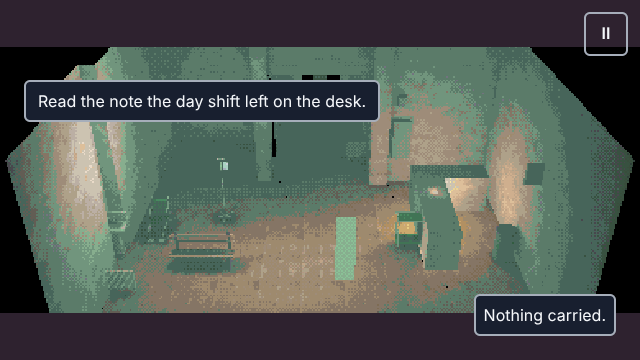
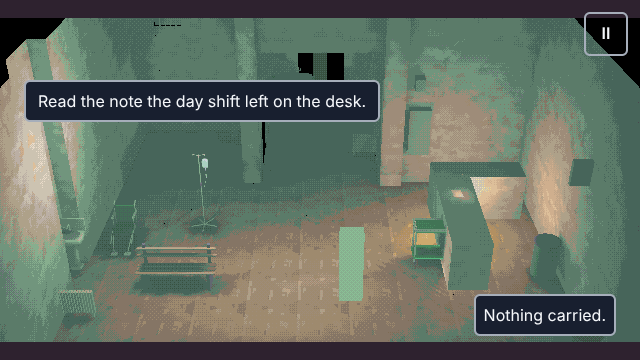
fix(the-last-light): the picture is the old game's, capped at 640 by 480
The game drew the framework look's 390 by 180 field; the Owner's ruling and the plan's amendment 7 bind the old game's, which is
the window's shape at most 640 wide and 480 tall (its pixelScale). Both screenshots for the Owner are re-shot at the new size.

Claude-Session: https://claude.ai/code/session_01HNdX7MbP4BrHngS9BNwUHr

diff --git a/games/the-last-light/src/app/game.ts b/games/the-last-light/src/app/game.ts
@@ -1,5 +1,5 @@
 import { content } from 'virtual:automata/content'
-import { createPixi3dRenderer, DEFAULT_LOOK, render3dExtension, targetSize } from '@automata/3d'
+import { createPixi3dRenderer, DEFAULT_LOOK, render3dExtension } from '@automata/3d'
 import { CameraTurn, STICK_MAX } from '@automata/3d/sim'
 import { defaultContent, defineGame, inputs, keys } from '@automata/framework'
 import { prefersReducedMotion, typedFor } from '@automata/narrative'
@@ -15,6 +15,7 @@ import { Ada } from '../shared/ada.component.ts'
 import { TICK_HZ } from '../shared/constants.ts'
 import { audio, SOUND_FILES } from './audio.ts'
 import { playOf } from './content.ts'
+import { fieldOfWindow } from './field.ts'
 import { playControls, playHud } from './play.extension.ts'
 import { createRuntime } from './runtime.ts'
 import { scenePlugin } from './scene.plugin.ts'
@@ -55,16 +56,15 @@ const TURN = keys(
   { idle: { units: 0 } },
 )
 
-/** The picture: capped at 640 by 480 (640 by 360 in a wide window), what a phone held sideways (844 by 390) gives. */
-const SIZE = targetSize({ width: 844, height: 390 }, DEFAULT_LOOK.pixel.short)
+/** The picture: the old game's, the window's shape capped at 640 by 480 (640 by 360 in a 16:9 window). */
+const SIZE = fieldOfWindow()
+/** The look with its field's short side the picture's, so the passes that read it draw at this size. */
+const LOOK = { ...DEFAULT_LOOK, pixel: { short: Math.min(SIZE.width, SIZE.height) } }
 
 /** The characters a cutscene can place, by who a script calls them. */
 const actors: Actors = new Map()
 
-/**
- * The Last Light, the framework's 3D reference game. Its picture is the old game's: capped at 640 by 480 (640 by 360
- * in a wide window), which is what `DEFAULT_LOOK`'s short side gives a phone held sideways (844 by 390).
- */
+/** The Last Light, the framework's 3D reference game. Its picture is the old game's (`app/field.ts`). */
 export const game = defineGame({
   id: 'the-last-light',
   title: 'The Last Light',
@@ -94,7 +94,7 @@ export const game = defineGame({
   createRenderer: (options) =>
     createPixi3dRenderer({
       ...options,
-      look: DEFAULT_LOOK,
+      look: LOOK,
       time: TIME,
       lighting: LIGHTING,
       // Plain figures until the painted ones are dressed (workstream 4): a box each, from where the sim says they stand.

diff --git a/games/the-last-light/src/app/field.ts b/games/the-last-light/src/app/field.ts
@@ -1,0 +1,31 @@
+// The picture's size. It is the old game's: the window's own shape, never wider than 640 or taller than 480 (the old game's
+// `pixelScale`: the renderer's resolution is `min(1, 640 / w, 480 / h)`), so a 16:9 window draws 640 by 360. The framework's own
+// look draws a 180-line field, which is the framework's default and not this game's; the old game's figures and lines a metre
+// are measured at this size (the plan's amendment 7).
+
+/** The largest picture, in pixels. */
+export const FIELD_CAP = { width: 640, height: 480 } as const
+
+/** The phone held sideways the page is designed at first, and the field when the window has no size. */
+const PHONE = { width: 844, height: 390 }
+
+/** The field for a window of `screen` CSS pixels: its shape, scaled down to fit the cap, never up. The game is landscape. */
+export function fieldFor(screen: { readonly width: number; readonly height: number }): {
+  width: number
+  height: number
+} {
+  const sized = screen.width > 0 && screen.height > 0
+  const width = sized ? Math.max(screen.width, screen.height) : PHONE.width
+  const height = sized ? Math.min(screen.width, screen.height) : PHONE.height
+  const resolution = Math.min(1, FIELD_CAP.width / width, FIELD_CAP.height / height)
+  return {
+    width: Math.max(1, Math.round(width * resolution)),
+    height: Math.max(1, Math.round(height * resolution)),
+  }
+}
+
+/** The field for the window the page runs in; the phone's where there is none (a test in Node). */
+export function fieldOfWindow(): { width: number; height: number } {
+  if (typeof window === 'undefined') return fieldFor({ width: 0, height: 0 })
+  return fieldFor({ width: window.innerWidth, height: window.innerHeight })
+}

diff --git a/games/the-last-light/tests/unit/app/field.test.ts b/games/the-last-light/tests/unit/app/field.test.ts
@@ -1,0 +1,36 @@
+import { describe, expect, it } from 'vitest'
+import { FIELD_CAP, fieldFor } from '#src/app/field.ts'
+
+// The picture is the old game's: the window's own shape, drawn at most 640 wide and 480 tall (the old `pixelScale`: the renderer's
+// resolution is min(1, 640 / w, 480 / h)), so a 16:9 window draws 640 by 360 and the sizes below are the old game's own.
+
+describe('the picture', () => {
+  it('is capped at 640 by 480', () => {
+    expect(FIELD_CAP).toEqual({ width: 640, height: 480 })
+  })
+
+  it('is 640 by 360 in a 16:9 window, whatever its size', () => {
+    expect(fieldFor({ width: 1280, height: 720 })).toEqual({ width: 640, height: 360 })
+    expect(fieldFor({ width: 1920, height: 1080 })).toEqual({ width: 640, height: 360 })
+  })
+
+  it('is 640 by 480 in a 4:3 window', () => {
+    expect(fieldFor({ width: 800, height: 600 })).toEqual({ width: 640, height: 480 })
+  })
+
+  it('keeps a phone held sideways its own shape: 844 by 390 draws 640 by 296', () => {
+    expect(fieldFor({ width: 844, height: 390 })).toEqual({ width: 640, height: 296 })
+  })
+
+  it('is never larger than the window: a small one draws at its own size', () => {
+    expect(fieldFor({ width: 500, height: 300 })).toEqual({ width: 500, height: 300 })
+  })
+
+  it('has the long side across, a phone held upright included (the game is landscape)', () => {
+    expect(fieldFor({ width: 390, height: 844 })).toEqual({ width: 640, height: 296 })
+  })
+
+  it('falls back to the phone sideways for a window with no size', () => {
+    expect(fieldFor({ width: 0, height: 0 })).toEqual({ width: 640, height: 296 })
+  })
+})

diff --git a/docs/superpowers/plans/2026-11-11-last-light-prologue.md b/docs/superpowers/plans/2026-11-11-last-light-prologue.md
@@ -1495,3 +1495,4 @@ Light; the game's folder carries its provenance file, and everything in it is MI
 | 2026-11-12 | The same session, task 14 (first part) | `content/hud/play.toml`: five pieces and nine objective rows in the old order (one list, T3), `objectiveNow` over the `hud` extension's `chooseObjective`, `hudModelOf` over a `PlayState` (the nearest hotspot in reach, none in a cutscene), and `musicStateOf` (`phase`, `lightsOut`, `figureAbout`, `chasing`, `hidden`) for the audio file's rules. Rulings: (1) a row with no condition needs `when = []` (the schema says so); (2) the lamp's `lit` and `fuel` are always present in the reader (`lampFacts`), so a row that asks `fuel <= 0` is a fill row; (3) the join to workstream 1's word system is not made (`claude/shared-polish-build` has not merged to `main`): the HUD's keys are the line ids and `hotspot.<id>` keys, with English in `content/lines` and `messages/ui/en.json`, so the join is a `words` function over them, left open. |
 | 2026-11-12 | The same session, the coordinator's rulings on task 12 | (c) **The lamp does not burn while a cutscene plays** (the old game ran no rules in one): `lamp.remember` and `lamp.hold` (the lamp feature) put back what the carried light burned, in the steps a cutscene plays; the test failed first (949 ticks burned over the 16 s of lights out) and passes; no change to `@automata/systems`. If the extension had a paused flag the hold would be one line there; **the smallest shape to propose:** `createCarriedLight({ paused: (ctx) => boolean })`, the same shape as `puzzle`'s `locked`, so a game says "not while a cutscene plays" in one option. (b) **A gap between the puzzle's rules and the cutscenes extension:** a systems rule or transition that says `emit cutscene = "x"` only emits `systems.cutscene` for the screen; nothing in the sim starts the script, so the game's hooks (`wake`, `caught`) start `lightsOut` and `found`. The smallest fix to propose: the `cutscenes` extension reads `systems.cutscene` (and `puzzle.cutscene`) in a system of its own and starts the script, so a file's `emit cutscene` plays it with no hook; a game that wants it silent leaves the `emit` out. (screenplay) The narrative tool's screenplay plays the shortest route through a trace game over the sim, which is the extension's plumbing; `tests/unit/content/lines-used.test.ts` is what holds without it: every line is shown by a puzzle action, a caption, an objective row, a storylet, a hint, an item or the game's own code, none is missing, and the eight the old prologue never showed (act one's torch, the journal's six) are listed with their reason. The check found one real gap: the lamp's fill said nothing (`combine.fill` had `say = ""`), so `prologue.combineFluid` was never shown; the action says it now. |
 | 2026-11-12 | The same session, task 14 (the rest) | The prologue is drawn, heard and felt in Chromium on SwiftShader; the page, the HUD, the cutscenes with their captions, the sound and the feel run. **Two extension faults found by the game and fixed test first, each in its own commit:** (1) `@automata/audio-synth` (`abb9a3c6`): a cue's `sound` was in the schema and its comment but the mixer never read it, so the nine recorded effects would have been silent; `MixerPort` gained an optional `sound(alias, bus, gain)`, the stage supplies it from `Audio.sound`, and an offline render (which has no files) still plays the voices; a `patch` changeset, the API report and index. (2) `@automata/cutscenes` (`0b7d6d2f`): `cutscenesExtension` never forwarded `typed` to its caption and the slot is not exported, so no game could type a delivery; the extension takes `typed` and passes it on (private package, no changeset). **A fault of this game's own task 11, found here:** `vite.config.ts` never registered the `peek`, `carried-light`, `hud` and `audio` kinds (nor `feel`), so the compiler skipped those files without a word and the sim used the defaults, which equal the files; `tests/unit/content/kinds.test.ts` and, on the coordinator's word, `registered.test.ts` (it fails, shown by taking `feelContent` out, when any file or folder under `content/` has no registered kind) fail without them. Rulings: (1) **The sim's types cannot say which cutscene, mode, noise or hotspot,** and the audio rows match an event's type alone, so the game names them the old table's way (`cutscene.<id>`, `agent.<who>.<mode>`, `noise.<kind>`, `use.<hotspot>`, `game.hide`) in `sound-events.ts`; the sim's own types each have a row, silent with a reason where a derived name plays. **Proposal for the log, not built:** rows that match payload keys (`on = "systems.mode", where = { to = "hunt" }`). (2) **The old volumes:** the old game scaled each recorded file (0.17 to 4.0) and a `Cue` had no gain, so `@automata/audio-synth`'s `Cue` took an optional `gain` (a multiplier, 1 when unset, as `Fallback.volume` is on a slot) on the coordinator's word, as an exception to "no public shape change" (own commit, test first, a `patch` changeset, the API report and index), and each recorded cue has the old game's gain in `audio.toml` (a test holds the nine; the old game's per-file low-pass for `pulseCounted` is not carried). (3) **The opening cutscene and the keypad cutscene were never started:** the sim starts `opening` on its first tick (as the old `begin` did) and `code.right` starts `keypad` (the old `code()` did); a cutscene holds the stick (`ada.walk`); the prologue's hash moves for these two named reasons (no golden is pinned for the game); the test harness skips the opening unless a test asks (`boot(seed, play, { opening: true })`). (4) **The camera:** each room names its view in the level, `ada.view` puts Ada's camera in the view of her room (a held stick latches the mapping across a doorway), and the spawn's heading is 180 degrees because the old game's camera stands south of her looking north (the framework's heading 0 looks toward +z). (5) **The screen reaches the sim through one place, `app/live.ts`:** the HUD's slot is given the draw layer's read-only view and a way to send a command, sets them while it is up, and the picture, the sound and the controls read them there; the examine box, the held item and the keypad's state (`screen-state.ts`) come from what the sim reported (`puzzle.said`, `puzzle.keypad`). (6) **Keys cannot be presses:** `keys()` sends what is held every tick, so F (the lamp) and skipping would toggle or skip every tick; they are one command each from `controls.ts` (F a press edge, X or the pad's start held 0.8 s to skip, the pad's north the lamp) and two buttons of 48 px on the screen (`PlayControls.svelte`, Lamp and Skip). Space and Enter are not used: they press the button that has the focus. No extension change. (7) **The look:** the ward is lit by its lamps at the kit's `lampLit` time with the level's own lighting; stand-in figures (a box each for Ada and the creature, lit as moving figures, which are also the cutscene stage's actors) and the world-kit's props stand in until task 13. (8) **The ending:** `rest` ending shows the credits (`@automata/ui-screens`'s `showCredits`; the names are `CREDITS` in `app/ending.ts`, code not content, until the words catalogs of task 18; it says only what the repository can say); core gives a game no way to send the player back to the title, so the player closes the panel and leaves by the pause menu. **Proposal, not built:** `PlayHandle.leave()`. (9) **The register is not done,** and cannot be as the plan has it: core's saves are written by autosave triggers (`screen-exit`, `round-end`, `background`, `interval`) and listed by the title; nothing lets a game ask for a slot write at a place or show the slots over play, and the Saves service reaches only screens. **Proposal, not built:** `PlayHandle.save(slot)`, with the slot list as a component core draws. The register hotspot still says its line. (10) **Feel:** `content/feel/feel.toml` has a catch (a shake, a red wash, a rumble) and the lamp running dry; the rows match event types, so nothing needs a derived name. (11) **The photosensitivity warning** is core's as it is on `main` (`photosensitivity: true`); the game's own declaration of its hazards follows when the fixes branch lands. Held, as told: task 13 and task 14's LCD panel and retro grade. Open proposals now in the log: a carried-light `paused` option; cutscenes reading the systems' cutscene state; rules that `emit cutscene` starting one; rows matching payload keys; `PlayHandle.leave()` and `.save()`. |
+| 2026-11-12 | The same session, task 14 (picture size) | **A defect of task 10, found by looking at the first draw:** the picture was the framework look's 390 x 180 field (`targetSize` of a phone with `DEFAULT_LOOK.pixel.short` of 180), not the old game's, while task 10's comment said it was 640 x 480 capped; amendment 7 and the Owner's ruling bind the old game's. `app/field.ts` (`fieldFor`, `fieldOfWindow`) is the old game's `pixelScale` (resolution `min(1, 640 / w, 480 / h)`: 640 x 360 in a 16:9 window, 640 x 480 in 4:3, 640 x 296 on a phone sideways, never larger than the window), read once from the window as base-3d does, and the look's short side is the field's. Its test and code were written in one step, so no "module missing" run was watched; it was shown failing by changing the cap to 600. The two screenshots in `docs/superpowers/audits/2026-11-12-last-light-prologue-first-draw/` are re-shot at the new size (the first pair, at 390 x 180 scaled up, was replaced). Ada's height on screen against the old game's 53 lines a metre is measured in task 15. |
